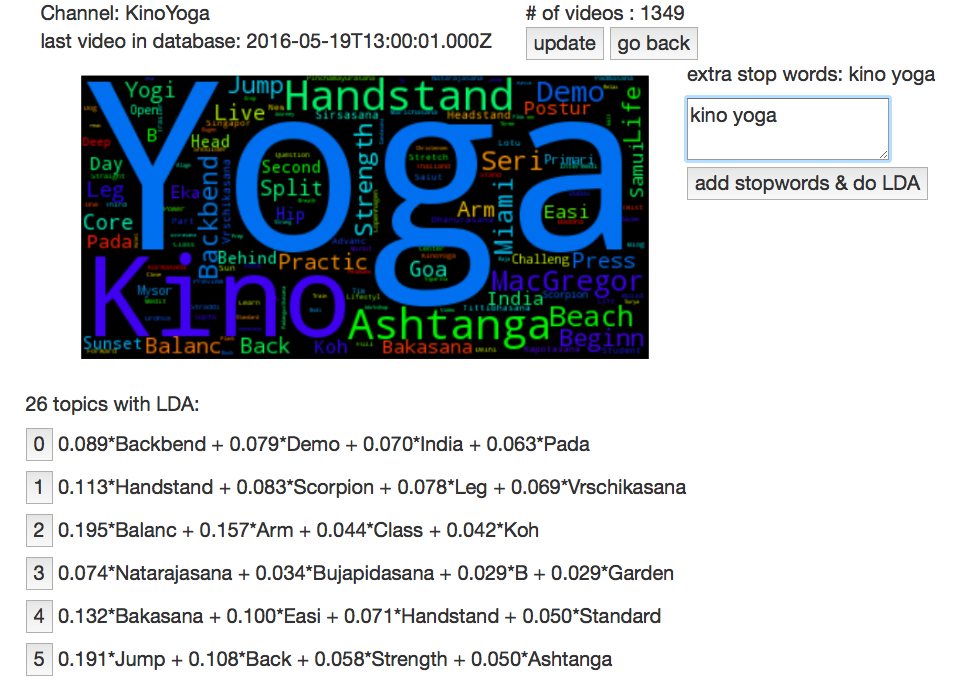
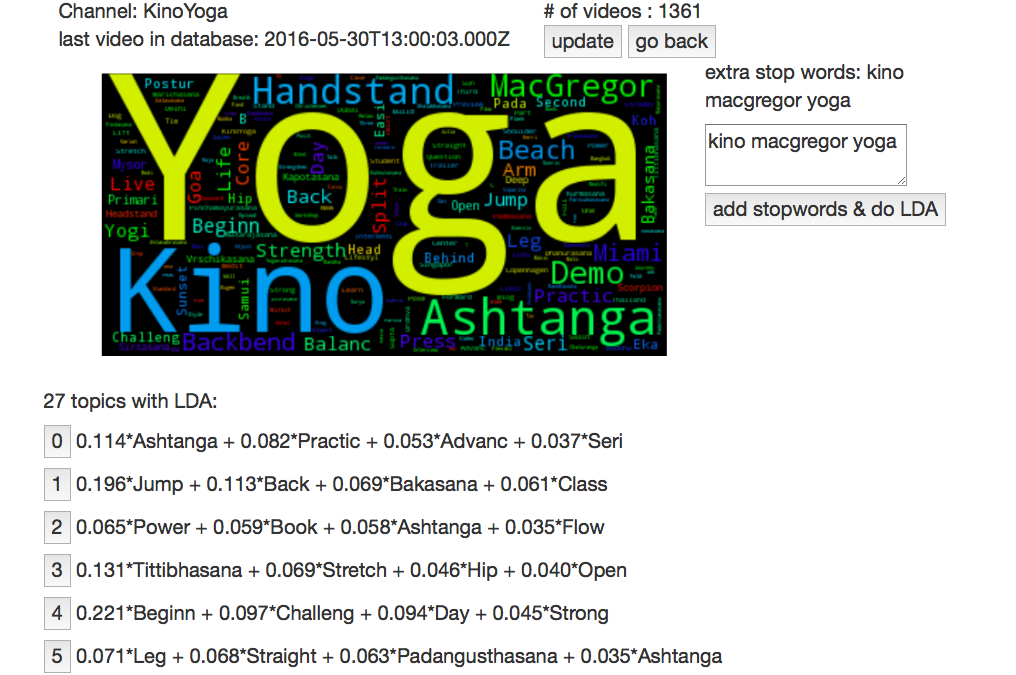
add content

Changed region(s): [[0.0303, 0.0, 1.0, 0.5289], [0.0303, 0.56, 0.728, 1.0]]

diff --git a/_posts/2016-04-21-youtube.md b/_posts/2016-04-21-youtube.md
@@ -27,5 +27,52 @@ The code can be found  on [github][git].
     </div>
   </div>
 
+Here I used a simple bag-of-words (BOW) model for topic modeling.
+For preprocessing, I removed certain stop words and also turned
+words to their stem form. The relevant codes are as follows.
+
+``` python
+from gensim import corpora
+import gensim
+
+from nltk.stem.porter import PorterStemmer 
+from nltk.tokenize import RegexpTokenizer
+tokenizer = RegexpTokenizer(r'\w+')
+porter = PorterStemmer()
+
+from nltk.corpus import stopwords
+stop = set(stopwords.words('english'))
+
+import re
+from functools import partial
+
+if channel.get('stopwords'):
+    extra_w = [x.lower() for x in channel['stopwords'].split()]
+    stopw = stop.union(extra_w)
+else:
+    stopw = stop
+new_tokenizer = partial(tokenize_text, stopw)
+titles = [new_tokenizer(v['title']) for v in videos]
+```
+
+Gensim makes it very easy to perform latent Dirichlet analysis.
+The relevant codes are as follows.
+
+``` python
+def do_LDA(titles,num_topics):    
+    dictionary = corpora.Dictionary(titles)
+    corpus = [dictionary.doc2bow(title) for title in titles]
+    threshold = 1/num_topics
+    ldamodel = gensim.models.ldamodel.LdaModel(corpus, 
+                num_topics=num_topics, id2word = dictionary, 
+                passes=20, minimum_probability=threshold)
+    # assign topics
+    lda_corpus = [max(x,key=lambda y:y[1]) 
+                        for x in ldamodel[corpus] ]
+    return ldamodel.show_topics(num_topics=num_topics,
+                                num_words=4), lda_corpus
+```
+
+
 [git]: https://github.com/nosarthur/youtube-break-down
 

diff --git a/_posts/2016-06-03-edu.md b/_posts/2016-06-03-edu.md
@@ -9,7 +9,7 @@ description: Quotes from the book
 tags: [education]
 ---
 
-## The individual versus the Citizen
+## The Individual versus the Citizen
 
 * Assuming that education should do something to afford a training 
 and not merely to prevent impediments to growth, the question

diff --git a/links.md b/links.md
@@ -6,9 +6,9 @@ permalink: /links/
 
 ### blogs
 * [Michael Nielsen][nielsen] 
-* [off the convex path][off]
 * [Christopher Olah][colah]
 * [Andrej Karpathy][karthy]
+* [off the convex path][off]
 * [rare-technologies][rare]
 
 ### conferences
